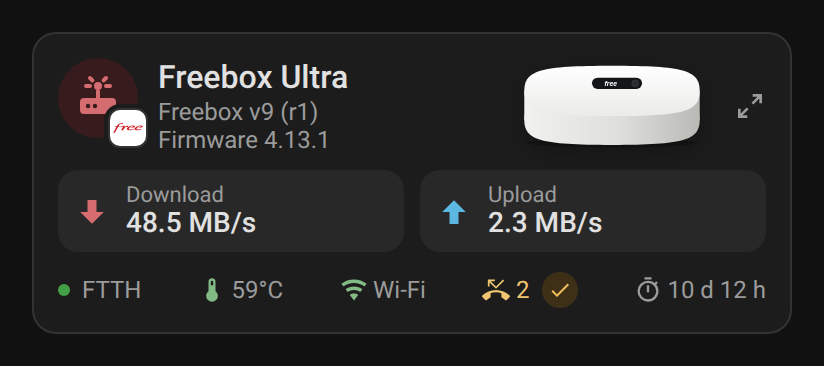
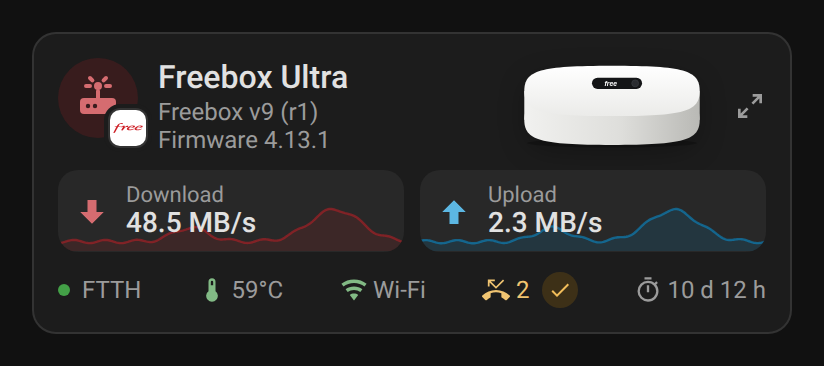
feat: 24 h curves on the folded mini card (2.4.0) (#74)
The folded mini card now draws the 24 h download / upload curves behind
its rate tiles, like the full card. `show_history` is in the mini card
editor too.

---
_Generated by [Claude
Code](https://claude.ai/code/session_01F4sAn1Ek4h88w9whpdhjW8)_

---------

diff --git a/src/internet-box-card.js b/src/internet-box-card.js
@@ -3141,12 +3141,11 @@ class InternetBoxMiniCard extends InternetBoxCard {
     const sc = box.scalars;
     const parts = [];
     if (c.show_network !== false && (sc.rate_down || sc.rate_up)) {
-      parts.push(`<div class="grid2">${this._rateTile(sc.rate_down, "down", ICONS.down, this._t("download"))}${this._rateTile(
-        sc.rate_up,
-        "up",
-        ICONS.up,
-        this._t("upload")
-      )}</div>`);
+      // The same 24 h curves as the full card, behind the compact rate tiles.
+      const hist = c.show_history === false ? null : this._history([sc.rate_down, sc.rate_up].filter(Boolean));
+      parts.push(
+        `<div class="grid2">${this._rateTile(sc.rate_down, "down", ICONS.down, this._t("download"), hist)}${this._rateTile(sc.rate_up, "up", ICONS.up, this._t("upload"), hist)}</div>`
+      );
     }
     const foot = [];
     const router = this._s(sc.router);
@@ -3360,7 +3359,7 @@ class InternetBoxCardEditor extends InternetBoxEditorBase {
 
 class InternetBoxMiniCardEditor extends InternetBoxEditorBase {
   static get toggles() {
-    return ["show_network", "show_system", "zoom"];
+    return ["show_network", "show_history", "show_system", "zoom"];
   }
 }
 

diff --git a/README.md b/README.md
@@ -33,7 +33,7 @@ Entities are **discovered automatically**, you don't have to pick them one by on
 - Header icon of the kind of connection (fibre, xDSL, 4G / 5G, else a box) in the operator colour, with the operator logo as a badge; accent colour, website and admin links follow the detected operator
 - Picture and commercial name of the box model, detected automatically or set with the `model` option, and firmware version
 - Connection status and type (FTTH, xDSL…), public IPv4 (IPv6 on hover) and uptime
-- Download / upload rates, in bytes (kB/s, MB/s) or bits (kb/s, Mb/s), with their last 24 hours drawn behind each tile (recorder statistics)
+- Download / upload rates, in bytes (kB/s, MB/s) or bits (kb/s, Mb/s), with their last 24 hours drawn behind each tile, on the full card and the mini card (recorder statistics)
 - Temperature gauges and fans speed
 - Storage: free space of the disk partitions and RAID status
 - Services: Wi-Fi state, missed calls and connected devices (the mini card footer always shows the missed calls, orange when there are some)
@@ -155,7 +155,7 @@ language: fr
 | `show_image` | both | `true` | Show the box picture |
 | `show_logo` | both | `true` | Show the header icon of the connection with the operator logo (opens the operator website when clicked) |
 | `show_network` | both | `true` | Download / upload rates (and IPv4, uptime on the full card) |
-| `show_history` | full | `true` | 24 h curve behind the download / upload tiles, from the recorder's 5-minute statistics (rate sensors with a `state_class`) |
+| `show_history` | both | `true` | 24 h curve behind the download / upload tiles, from the recorder's 5-minute statistics (rate sensors with a `state_class`) |
 | `show_system` | both | `true` | Temperatures and fans (hottest temperature on the mini card) |
 | `show_storage` | full | `true` | Disk partitions and RAID status |
 | `show_services` | full | `true` | Wi-Fi, missed calls and connected devices |

diff --git a/CHANGELOG.md b/CHANGELOG.md
@@ -1,5 +1,10 @@
 # Changelog
 
+## 2.4.0 - 2026-11-07
+
+### Features
+- Mini card: the folded download and upload tiles also draw their last 24 hours, like the full card (`show_history`, now also in the mini card editor).
+
 ## 2.3.0 - 2026-11-07
 
 ### Features
